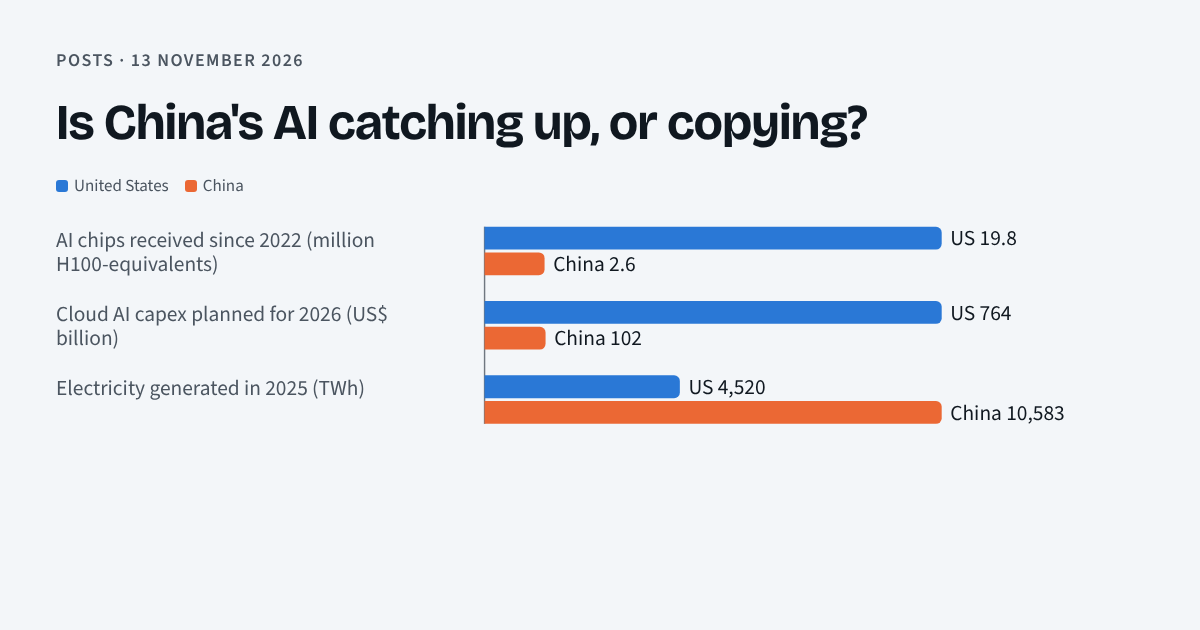
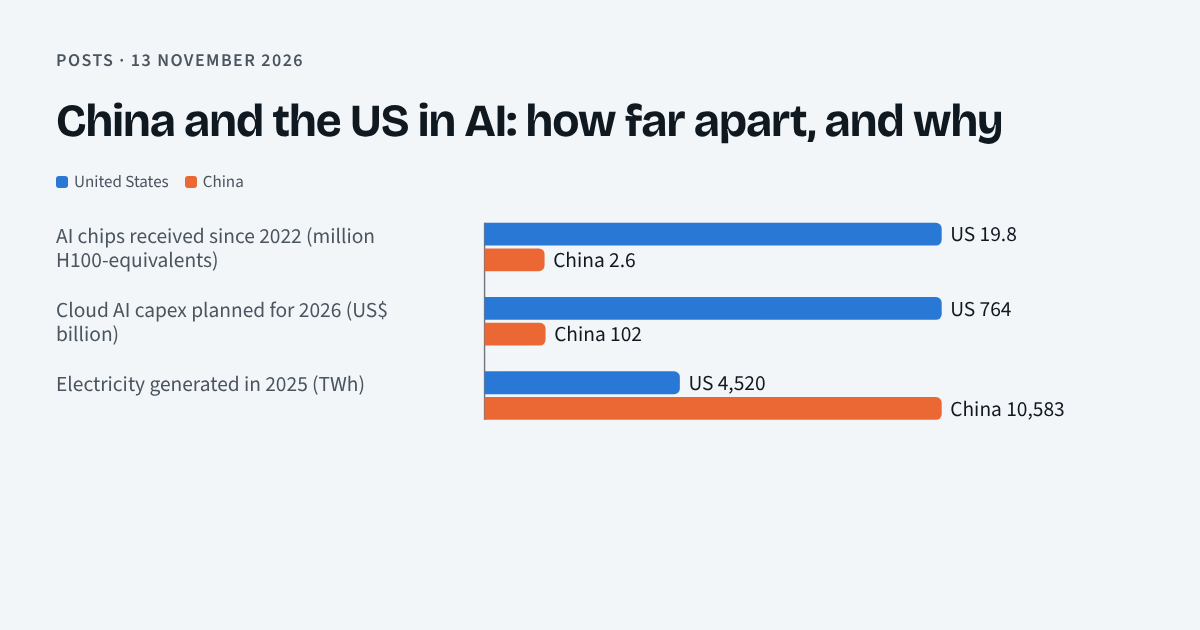
Reframe China-US AI post as a plain analysis (#2)
Drop the two opposing claims. The page now asks how far apart the two
countries are and why, by topic: gap, efficiency, compute and power,
distillation, open models. Same evidence, sources and URL.

Claude-Session: https://claude.ai/code/session_0147RMXtqWjcENkYBGEDdVp2

diff --git a/china-us-ai-2026/index.html b/china-us-ai-2026/index.html
@@ -3,12 +3,12 @@
 <head>
 <meta charset="utf-8">
 <meta name="viewport" content="width=device-width, initial-scale=1">
-<title>Is China's AI catching up, or copying? Two claims tested</title>
-<meta name="description" content="Two common takes on the China-US AI race, tested against the evidence: Chinese AI is more efficient and will win, or China is six months behind because it only distills US models.">
+<title>China and the US in AI: how far apart, and why</title>
+<meta name="description" content="An analysis of the China-US AI gap in 2026: how far behind Chinese models are, and what efficiency, compute, power, distillation and open models each contribute.">
 <meta property="og:type" content="article">
 <meta property="og:site_name" content="Posts">
-<meta property="og:title" content="Is China's AI catching up, or copying? Two claims tested">
-<meta property="og:description" content="China is about six months behind with a fraction of the compute. Distillation is large, but so is Chinese innovation. Neither popular take holds up.">
+<meta property="og:title" content="China and the US in AI: how far apart, and why">
+<meta property="og:description" content="Chinese models trail the US by about six months with a fraction of the compute. Efficiency, distillation, power and open models, measured.">
 <meta property="og:url" content="https://jwang47.github.io/posts/china-us-ai-2026/">
 <meta property="og:image" content="https://jwang47.github.io/posts/china-us-ai-2026/card.png">
 <meta property="og:image:width" content="1200">
@@ -90,11 +90,13 @@ footer { font-size: 15px; color: var(--ink-2); display: flex; flex-direction: co
 <main>
 <header>
   <div class="kicker">Written 13 November 2026</div>
-  <h1>Is China's AI catching up, or copying? Two claims tested</h1>
-  <p class="lede">Two friends disagree about the AI race. One says Chinese AI is more efficient, so it will win whatever happens. The other says China is always six months behind because it only copies American models. The evidence gives the second friend the right number and the first friend one real point. Neither conclusion holds.</p>
+  <h1>China and the US in AI: how far apart, and why</h1>
+  <p class="lede">The best Chinese AI models trail the best American ones by about six months. This post looks at why: how much comes from efficiency, compute, electricity and distillation, and where China already leads.</p>
   <div class="claims">
-    <div class="claim"><q>Chinese AI is a lot more scalable than US AI, it's more optimized. US AI is only better because of raw processing power, so either way they're gonna win.</q><b>Mostly wrong.</b><span>Chinese labs did invent real efficiency methods. But they are short of compute, not more scalable: they rationed service in 2026 and DeepSeek raised its prices. The US has 8 to 16 times the compute, and published efficiency methods help both sides.</span></div>
-    <div class="claim"><q>China is always 6 months behind Anthropic and OpenAI because they're mainly just distilling their models. Always lagging, no real innovation.</q><b>Right number, half-right reason.</b><span>The gap is about 4 to 8 months. Distillation is real and very large: Anthropic's per-lab counts add up to about 190 million exchanges, mostly in May to July 2026. But Chinese labs also publish original methods, so "no real innovation" is wrong.</span></div>
+    <div class="claim"><b>The gap</b><span>About 4 to 8 months, centred near 6, with no clear trend since 2023. Every model at the frontier has been American.</span></div>
+    <div class="claim"><b>Efficiency</b><span>Chinese labs published original methods that cut training and serving costs. They still ration compute, and efficiency does not replace chips.</span></div>
+    <div class="claim"><b>Compute and power</b><span>The US has about 8 to 16 times the AI compute. China generates more than twice the electricity, but cannot yet make enough chips to use it.</span></div>
+    <div class="claim"><b>Distillation</b><span>Large and documented: Anthropic's per-lab counts add up to about 190 million exchanges in 2026. One estimate says it halves the gap.</span></div>
   </div>
   <div class="tiles">
     <div class="tile"><b>~6 months</b><span>typical lag of the best Chinese model behind the best US model; range 4 to 14</span></div>
@@ -155,12 +157,12 @@ footer { font-size: 15px; color: var(--ink-2); display: flex; flex-direction: co
 <g><path class="cn" d="M0.0,351.0 h80.6 a4,4 0 0 1 4,4 v14.0 a4,4 0 0 1 -4,4 h-80.6 z"/><title>Epoch AI, open vs closed models, since Jan 2026: 4 months</title></g>
 <text class="val" x="90.6" y="367.0">4</text></svg><details><summary>Show the numbers</summary><div class="wrap"><table><tr><th>Estimate</th><th>Months behind</th><th>Note</th></tr><tr><td>NIST CAISI test of DeepSeek V4 Pro, May 2026</td><td>8</td><td>About level with GPT-5</td></tr><tr><td>Epoch AI, best Chinese vs best US model, 2023 to Jan 2026 (average)</td><td>7</td><td>Range 4 to 14 months</td></tr><tr><td>Institute for Progress, 2026</td><td>6.5</td><td>Says it would be about 13 without distillation</td></tr><tr><td>Mozilla, open vs closed models, Sep 2026</td><td>4.4</td><td>Open vs closed, not China vs US</td></tr><tr><td>Epoch AI, open vs closed models, since Jan 2026</td><td>4</td><td>Open vs closed, not China vs US</td></tr></table></div></details>
   </div>
-  <p>So the second friend's "six months" is a fair summary: about 4 to 8 months, centred near 6, with no clear trend either way. The word "always" is too strong; the lag has moved between 4 and 14 months since 2023.</p>
+  <p>Taken together: about 4 to 8 months, centred near 6, with no clear trend either way. The lag is not fixed; it has moved between 4 and 14 months since 2023.</p>
 </section>
 
 <section>
-  <h2>Claim 1: China is more efficient</h2>
-  <p>This part has truth in it. Export controls cut Chinese labs off from the best Nvidia chips, so they had to do more with less. Their published work shows original methods:</p>
+  <h2>Efficiency</h2>
+  <p>Export controls cut Chinese labs off from the best Nvidia chips, so they had to do more with less. Their published work shows original methods:</p>
   <ul class="plain">
     <li><b>DeepSeek-V3</b> (Dec 2024) took about 2.8 million GPU hours for its final training run, about $5.6 million at rental prices. Meta's Llama 3 405B, a weaker model, took 30.8 million.<sup><a href="#s14">14</a></sup> It combined a compressed attention cache (MLA, DeepSeek's own design), mixture-of-experts and 8-bit training at scale.</li>
     <li><b>DeepSeek-R1</b> (Jan 2025) was the first open, detailed recipe for teaching a model to reason with reinforcement learning (GRPO). OpenAI's o1 reasoned first, but kept its method secret. R1 was also the first major model paper to pass peer review, in <i>Nature</i>; the reasoning stage cost about $294,000.<sup><a href="#s15">15</a></sup></li>
@@ -210,7 +212,11 @@ footer { font-size: 15px; color: var(--ink-2); display: flex; flex-direction: co
 <text class="val" x="15.8" y="322.0">1.32</text></svg><details><summary>Show the numbers</summary><div class="wrap"><table><tr><th>Model</th><th>US$ per million output tokens</th></tr><tr><td>Claude Fable 5.2 (Anthropic)</td><td>$40</td></tr><tr><td>Claude Opus 5.5 (Anthropic)</td><td>$20</td></tr><tr><td>GPT-6.1 Sol (OpenAI)</td><td>$10</td></tr><tr><td>Claude Sonnet 5.5 (Anthropic)</td><td>$10</td></tr><tr><td>DeepSeek V4-Pro, peak hours</td><td>$3.96</td></tr><tr><td>DeepSeek V4-Flash, peak hours</td><td>$1.32</td></tr></table></div></details>
     <div class="note">DeepSeek charges half these prices off-peak. Before August, V4-Pro cost $0.87. The models are not equal in ability, so this is not a like-for-like comparison.</div>
   </div>
-  <p>Now the problems with "more scalable, so they will win either way".</p>
+  </section>
+
+<section>
+  <h2>Compute and power</h2>
+  <p>Efficiency matters, but it has limits as a strategy.</p>
   <ol class="plain">
     <li><b>Chinese labs are short of compute, not scaling past it.</b> In April 2026 Caixin reported that MiniMax, Moonshot and Zhipu rationed service, and DeepSeek had an outage of nearly 12 hours. Alibaba Cloud's chief expects the shortage to last 3 to 5 years.<sup><a href="#s27">27</a></sup> DeepSeek's price rise points the same way. Efficiency was how they coped with too few chips; it did not make the shortage go away.</li>
     <li><b>The compute gap is large and growing.</b> Of all AI chips shipped from 2022 to mid-2026, the US got 72% and China about 10%, by computing power: about 7.6 times as much.<sup><a href="#s5">5</a></sup> The Institute for Progress puts the gap in compute used for training at about 16 times.<sup><a href="#s3">3</a></sup> The US share of new compute rose from about 60% a year in 2022-2024 to 78% in the first half of 2026.<sup><a href="#s5">5</a></sup> US cloud companies plan about $764 billion of AI spending in 2026, against about $102 billion for Chinese ones.<sup><a href="#s6">6</a></sup></li>
@@ -277,7 +283,7 @@ footer { font-size: 15px; color: var(--ink-2); display: flex; flex-direction: co
 <g><path class="cn" d="M0.0,202.0 h292.0 a4,4 0 0 1 4,4 v8.0 a4,4 0 0 1 -4,4 h-292.0 z"/><title>China: 10,583 TWh</title></g>
 <text class="val" x="302.0" y="215.0">China 10,583</text></svg><details><summary>Show the numbers</summary><div class="wrap"><table><tr><th>Measure</th><th>US</th><th>China</th></tr><tr><td>AI chips received since 2022 (million H100-equivalents)</td><td>19.8</td><td>2.6</td></tr><tr><td>Cloud AI capex planned for 2026 (US$ billion)</td><td>764</td><td>102</td></tr><tr><td>Electricity generated in 2025 (TWh)</td><td>4,520</td><td>10,583</td></tr></table></div></details>
   </div>
-  <p>The last row shows where "more scalable" does have force: <b>power</b>. China generated about 10,600 TWh of electricity in 2025, more than twice the US, and added about 540 GW of capacity in that one year.<sup><a href="#s7">7</a></sup> Power is now the main limit on US data centres; in China it is chips.<sup><a href="#s7">7</a>,<a href="#s22">22</a></sup> If China solves chips, its power lead starts to matter a lot.</p>
+  <p>The last row shows where China does scale better: <b>power</b>. China generated about 10,600 TWh of electricity in 2025, more than twice the US, and added about 540 GW of capacity in that one year.<sup><a href="#s7">7</a></sup> Power is now the main limit on US data centres; in China it is chips.<sup><a href="#s7">7</a>,<a href="#s22">22</a></sup> If China solves chips, its power lead starts to matter a lot.</p>
   <p>It has not solved chips. Huawei's Ascend output is limited by high-bandwidth memory more than by chip factories, and Epoch AI estimates Huawei will make less than 4% as much AI compute as Nvidia in 2026.<sup><a href="#s19">19</a></sup> Washington licensed some Nvidia H200 sales to China, but Beijing itself limits them, and few have shipped.<sup><a href="#s20">20</a></sup> IFP estimates, per secondary coverage, that about 65% of China's AI compute runs on US chips.<sup><a href="#s3">3</a></sup></p>
   <div class="box new">
     <p><b>New this week.</b> On 12 November, former OpenAI researcher Will DePue published an analysis of six recent models from DeepSeek, Moonshot, MiniMax and Ant Group. He says traces in the published weights show that they were initialised on Nvidia Blackwell chips, which are banned for export to China. His method matched 24 models whose makers disclosed their hardware. His own report says this "supports, without proving" training on Blackwell, and does not show where the chips were or that any law was broken. He estimates roughly 12,000 Blackwell GPUs (7,000 to 20,000).<sup><a href="#s21">21</a></sup> The analysis is one day old and unverified. If it holds, the number is small next to the US fleet, so it would not change the compute picture much. It would suggest that export controls leak, and that part of China's "efficiency" story runs on US chips.</p>
@@ -285,9 +291,9 @@ footer { font-size: 15px; color: var(--ink-2); display: flex; flex-direction: co
 </section>
 
 <section>
-  <h2>Claim 2: China mainly copies by distillation</h2>
-  <p>Distillation means training a model on the answers of a stronger model. Every lab does it with its own models. The accusation is that Chinese labs did it with US models, at scale, through fake accounts and proxy services.</p>
-  <p>The evidence for that is strong and the scale is large. In February 2026 Anthropic said DeepSeek, Moonshot and MiniMax made over 16 million exchanges with Claude through about 24,000 fraudulent accounts. It traced some accounts to specific researchers at DeepSeek and to senior Moonshot staff.<sup><a href="#s10">10</a></sup> In September it reported campaigns from seven China-based labs. Alibaba, the maker of Qwen, ran "the largest distillation attack we have ever measured": over 151 million exchanges from May to July, aimed at Claude's reasoning.<sup><a href="#s11">11</a></sup> Anthropic's per-lab counts add up to about 190 million exchanges, mostly in those three months. OpenAI told a House committee the same about DeepSeek in February,<sup><a href="#s13">13</a></sup> and Google has published on it too.<sup><a href="#s11">11</a></sup></p>
+  <h2>Distillation</h2>
+  <p>Distillation means training a model on the answers of a stronger model. Every lab does it with its own models. The issue here is that Chinese labs did it with US models, at scale, through fake accounts and proxy services.</p>
+  <p>The evidence is strong and the scale is large. In February 2026 Anthropic said DeepSeek, Moonshot and MiniMax made over 16 million exchanges with Claude through about 24,000 fraudulent accounts. It traced some accounts to specific researchers at DeepSeek and to senior Moonshot staff.<sup><a href="#s10">10</a></sup> In September it reported campaigns from seven China-based labs. Alibaba, the maker of Qwen, ran "the largest distillation attack we have ever measured": over 151 million exchanges from May to July, aimed at Claude's reasoning.<sup><a href="#s11">11</a></sup> Anthropic's per-lab counts add up to about 190 million exchanges, mostly in those three months. OpenAI told a House committee the same about DeepSeek in February,<sup><a href="#s13">13</a></sup> and Google has published on it too.<sup><a href="#s11">11</a></sup></p>
   <div class="panel">
     <h3>Exchanges with Claude that Anthropic attributes to each lab</h3>
     <div class="sub">Millions of exchanges, from Anthropic's February and September 2026 reports. The time windows differ. Not independently verified.</div>
@@ -330,29 +336,29 @@ footer { font-size: 15px; color: var(--ink-2); display: flex; flex-direction: co
   </div>
   <p>It also works. In Anthropic's test, a pretrained Claude model trained on Claude Opus 4.8 transcripts scored 80.4% on SWE-bench Verified, a hard coding test, and 71.8% when the reasoning was summarised.<sup><a href="#s12">12</a></sup> Anthropic says Zhipu distilled the cyber skills of US models into GLM-5.3, which CAISI rates the most cyber-capable open model released so far.<sup><a href="#s12">12</a></sup></p>
   <p>How much of the lag does it explain? The only number anyone has published comes from the Institute for Progress. It models the US compute lead as worth about 13 months, and says distillation cuts that to about 6.5.<sup><a href="#s3">3</a></sup> IFP argues for export controls, so it is not neutral, but nobody has published a better estimate. If it is roughly right, distillation is not a side issue. It halves the gap.</p>
-  <p>But "no real innovation" still fails. You cannot learn a new attention design, a new optimizer fix or a cheaper training recipe by copying another model's answers. Those came from Chinese labs, in public papers with open weights. The fair summary is that Chinese labs both innovate and distill, and the distilling is a major part of how they keep pace.</p>
+  <p>Distillation does not explain everything. You cannot learn a new attention design, a new optimizer fix or a cheaper training recipe by copying another model's answers. Those came from Chinese labs, in public papers with open weights. The fair summary is that Chinese labs both innovate and distill, and the distilling is a major part of how they keep pace.</p>
   <div class="box">
     <p><b>A conflict of interest.</b> Almost all distillation evidence comes from Anthropic and OpenAI, who compete with these labs and lobby for export controls. Nobody outside has checked it, and the named labs have mostly not answered. Mozilla, for one, calls a claim that Moonshot distilled Claude Fable 5 for Kimi K3 "asserted, and unshown".<sup><a href="#s4">4</a></sup> And this post was written by Claude, which Anthropic makes. I have used the counts and test results in the reports, not their arguments, and I tried to give the sceptical side too.</p>
   </div>
-  <p>One test is coming. Anthropic says its new defences cut the data that distillers get by 90 to 99%.<sup><a href="#s12">12</a></sup> That covers only its own models; distillers can move to other labs, as Zhipu did. If US labs together shut distillation down and the gap widens through 2027, the second friend's theory gains a lot. If the gap holds at about six months, Chinese labs are doing more on their own than their critics think.</p>
+  <p>One test is coming. Anthropic says its new defences cut the data that distillers get by 90 to 99%.<sup><a href="#s12">12</a></sup> That covers only its own models; distillers can move to other labs, as Zhipu did. If US labs together shut distillation down and the gap widens through 2027, distillation was carrying a lot. If the gap holds at about six months, Chinese labs are doing more on their own than their critics think.</p>
 </section>
 
 <section>
   <h2>Where China is ahead</h2>
-  <p>Neither friend mentioned the area where China clearly leads: <b>open models that other people build on</b>. Chinese models took 41% of Hugging Face downloads in the year to March 2026.<sup><a href="#s8">8</a></sup> Alibaba's Qwen family passed Meta's Llama: about 151,000 derivative models, 2.6 times Meta's, and about 2 billion downloads in 2026 against 227 million for Meta.<sup><a href="#s8">8</a></sup> On OpenRouter, a popular service that routes requests to many models, Chinese models handled more than half of all tokens in September 2026, by several estimates.<sup><a href="#s28">28</a></sup> For a company or a country that wants a good model it can run itself, cheaply, the default in 2026 is usually Chinese.</p>
+  <p>There is one area where China clearly leads: <b>open models that other people build on</b>. Chinese models took 41% of Hugging Face downloads in the year to March 2026.<sup><a href="#s8">8</a></sup> Alibaba's Qwen family passed Meta's Llama: about 151,000 derivative models, 2.6 times Meta's, and about 2 billion downloads in 2026 against 227 million for Meta.<sup><a href="#s8">8</a></sup> On OpenRouter, a popular service that routes requests to many models, Chinese models handled more than half of all tokens in September 2026, by several estimates.<sup><a href="#s28">28</a></sup> For a company or a country that wants a good model it can run itself, cheaply, the default in 2026 is usually Chinese.</p>
   <p>That is a different race. The US leads at building the best model. China leads at spreading good-enough models everywhere.</p>
 </section>
 
 <section>
-  <h2>Verdict</h2>
+  <h2>Summary</h2>
   <ul class="plain">
-    <li><b>"China is about six months behind"</b>: true. About 4 to 8 months, with no clear trend.</li>
-    <li><b>"Because they mainly distill"</b>: partly true. Distillation is large, documented and, by the one published estimate, worth about half the gap. The size is disputed and comes mostly from interested parties.</li>
-    <li><b>"No real innovation"</b>: false. Chinese labs published several original efficiency methods that the open-model world now uses.</li>
-    <li><b>"Chinese AI is more optimized"</b>: partly true. Their training and inference methods are lean, and list prices are lower. Per finished task the cost is mixed.</li>
-    <li><b>"More scalable"</b>: false today. Chinese labs ration compute. Only in electricity does China scale better.</li>
-    <li><b>"US AI is only better because of raw compute"</b>: cannot be shown. Compute is the biggest US advantage, 8 to 16 times, but the IFP estimate says the US lead would be twice as long if distillation stopped.</li>
-    <li><b>"So China wins either way"</b>: does not follow. Published efficiency gains help both sides, and the US gets to apply them to far more chips.</li>
+    <li><b>The gap</b> is about 4 to 8 months, with no clear trend. The frontier has been American every month since 2023.</li>
+    <li><b>Efficiency</b> is a real Chinese strength. Their training and serving methods are lean and original, and list prices are lower. Per finished task, the cost is mixed.</li>
+    <li><b>Compute</b> is the largest US advantage, about 8 to 16 times, and the US share of new chips is still growing. Chinese labs rationed service in 2026.</li>
+    <li><b>Power</b> is China's largest structural advantage, but it cannot use it at scale until it makes enough AI chips and high-bandwidth memory.</li>
+    <li><b>Distillation</b> is large and documented. By the one published estimate it is worth about half the gap. The size is disputed, and the evidence comes mostly from interested parties.</li>
+    <li><b>Original research</b> is real: several efficiency methods that the open-model world now uses came from Chinese labs.</li>
+    <li><b>Open models</b> are where China leads, by downloads, derivatives and usage.</li>
   </ul>
   <p>The likely path for the next year or two: the US keeps the frontier by about six months, and China keeps the lead in cheap open models and in power. Three things could change that. If China makes high-bandwidth memory at scale, its power lead comes into play. If Blackwell chips keep reaching Chinese labs, export controls matter less. If distillation is shut off and the gap widens, the US lead grows.</p>
 </section>

diff --git a/china-us-ai-2026/page.html b/china-us-ai-2026/page.html
@@ -3,12 +3,12 @@
 <head>
 <meta charset="utf-8">
 <meta name="viewport" content="width=device-width, initial-scale=1">
-<title>Is China's AI catching up, or copying? Two claims tested</title>
-<meta name="description" content="Two common takes on the China-US AI race, tested against the evidence: Chinese AI is more efficient and will win, or China is six months behind because it only distills US models.">
+<title>China and the US in AI: how far apart, and why</title>
+<meta name="description" content="An analysis of the China-US AI gap in 2026: how far behind Chinese models are, and what efficiency, compute, power, distillation and open models each contribute.">
 <meta property="og:type" content="article">
 <meta property="og:site_name" content="Posts">
-<meta property="og:title" content="Is China's AI catching up, or copying? Two claims tested">
-<meta property="og:description" content="China is about six months behind with a fraction of the compute. Distillation is large, but so is Chinese innovation. Neither popular take holds up.">
+<meta property="og:title" content="China and the US in AI: how far apart, and why">
+<meta property="og:description" content="Chinese models trail the US by about six months with a fraction of the compute. Efficiency, distillation, power and open models, measured.">
 <meta property="og:url" content="https://jwang47.github.io/posts/china-us-ai-2026/">
 <meta property="og:image" content="https://jwang47.github.io/posts/china-us-ai-2026/card.png">
 <meta property="og:image:width" content="1200">
@@ -90,11 +90,13 @@ footer { font-size: 15px; color: var(--ink-2); display: flex; flex-direction: co
 <main>
 <header>
   <div class="kicker">Written 13 November 2026</div>
-  <h1>Is China's AI catching up, or copying? Two claims tested</h1>
-  <p class="lede">Two friends disagree about the AI race. One says Chinese AI is more efficient, so it will win whatever happens. The other says China is always six months behind because it only copies American models. The evidence gives the second friend the right number and the first friend one real point. Neither conclusion holds.</p>
+  <h1>China and the US in AI: how far apart, and why</h1>
+  <p class="lede">The best Chinese AI models trail the best American ones by about six months. This post looks at why: how much comes from efficiency, compute, electricity and distillation, and where China already leads.</p>
   <div class="claims">
-    <div class="claim"><q>Chinese AI is a lot more scalable than US AI, it's more optimized. US AI is only better because of raw processing power, so either way they're gonna win.</q><b>Mostly wrong.</b><span>Chinese labs did invent real efficiency methods. But they are short of compute, not more scalable: they rationed service in 2026 and DeepSeek raised its prices. The US has 8 to 16 times the compute, and published efficiency methods help both sides.</span></div>
-    <div class="claim"><q>China is always 6 months behind Anthropic and OpenAI because they're mainly just distilling their models. Always lagging, no real innovation.</q><b>Right number, half-right reason.</b><span>The gap is about 4 to 8 months. Distillation is real and very large: Anthropic's per-lab counts add up to about 190 million exchanges, mostly in May to July 2026. But Chinese labs also publish original methods, so "no real innovation" is wrong.</span></div>
+    <div class="claim"><b>The gap</b><span>About 4 to 8 months, centred near 6, with no clear trend since 2023. Every model at the frontier has been American.</span></div>
+    <div class="claim"><b>Efficiency</b><span>Chinese labs published original methods that cut training and serving costs. They still ration compute, and efficiency does not replace chips.</span></div>
+    <div class="claim"><b>Compute and power</b><span>The US has about 8 to 16 times the AI compute. China generates more than twice the electricity, but cannot yet make enough chips to use it.</span></div>
+    <div class="claim"><b>Distillation</b><span>Large and documented: Anthropic's per-lab counts add up to about 190 million exchanges in 2026. One estimate says it halves the gap.</span></div>
   </div>
   <div class="tiles">
     <div class="tile"><b>~6 months</b><span>typical lag of the best Chinese model behind the best US model; range 4 to 14</span></div>
@@ -113,12 +115,12 @@ footer { font-size: 15px; color: var(--ink-2); display: flex; flex-direction: co
     <div class="sub">Five published estimates. The last two compare open-weight with closed models.</div>
     {{chart:lag}}
   </div>
-  <p>So the second friend's "six months" is a fair summary: about 4 to 8 months, centred near 6, with no clear trend either way. The word "always" is too strong; the lag has moved between 4 and 14 months since 2023.</p>
+  <p>Taken together: about 4 to 8 months, centred near 6, with no clear trend either way. The lag is not fixed; it has moved between 4 and 14 months since 2023.</p>
 </section>
 
 <section>
-  <h2>Claim 1: China is more efficient</h2>
-  <p>This part has truth in it. Export controls cut Chinese labs off from the best Nvidia chips, so they had to do more with less. Their published work shows original methods:</p>
+  <h2>Efficiency</h2>
+  <p>Export controls cut Chinese labs off from the best Nvidia chips, so they had to do more with less. Their published work shows original methods:</p>
   <ul class="plain">
     <li><b>DeepSeek-V3</b> (Dec 2024) took about 2.8 million GPU hours for its final training run, about $5.6 million at rental prices. Meta's Llama 3 405B, a weaker model, took 30.8 million.<sup><a href="#s14">14</a></sup> It combined a compressed attention cache (MLA, DeepSeek's own design), mixture-of-experts and 8-bit training at scale.</li>
     <li><b>DeepSeek-R1</b> (Jan 2025) was the first open, detailed recipe for teaching a model to reason with reinforcement learning (GRPO). OpenAI's o1 reasoned first, but kept its method secret. R1 was also the first major model paper to pass peer review, in <i>Nature</i>; the reasoning stage cost about $294,000.<sup><a href="#s15">15</a></sup></li>
@@ -133,7 +135,11 @@ footer { font-size: 15px; color: var(--ink-2); display: flex; flex-direction: co
     {{chart:price}}
     <div class="note">DeepSeek charges half these prices off-peak. Before August, V4-Pro cost $0.87. The models are not equal in ability, so this is not a like-for-like comparison.</div>
   </div>
-  <p>Now the problems with "more scalable, so they will win either way".</p>
+  </section>
+
+<section>
+  <h2>Compute and power</h2>
+  <p>Efficiency matters, but it has limits as a strategy.</p>
   <ol class="plain">
     <li><b>Chinese labs are short of compute, not scaling past it.</b> In April 2026 Caixin reported that MiniMax, Moonshot and Zhipu rationed service, and DeepSeek had an outage of nearly 12 hours. Alibaba Cloud's chief expects the shortage to last 3 to 5 years.<sup><a href="#s27">27</a></sup> DeepSeek's price rise points the same way. Efficiency was how they coped with too few chips; it did not make the shortage go away.</li>
     <li><b>The compute gap is large and growing.</b> Of all AI chips shipped from 2022 to mid-2026, the US got 72% and China about 10%, by computing power: about 7.6 times as much.<sup><a href="#s5">5</a></sup> The Institute for Progress puts the gap in compute used for training at about 16 times.<sup><a href="#s3">3</a></sup> The US share of new compute rose from about 60% a year in 2022-2024 to 78% in the first half of 2026.<sup><a href="#s5">5</a></sup> US cloud companies plan about $764 billion of AI spending in 2026, against about $102 billion for Chinese ones.<sup><a href="#s6">6</a></sup></li>
@@ -151,7 +157,7 @@ footer { font-size: 15px; color: var(--ink-2); display: flex; flex-direction: co
     <div class="legend"><span><i style="background:var(--us)"></i>United States</span><span><i style="background:var(--cn)"></i>China</span></div>
     {{chart:pairs}}
   </div>
-  <p>The last row shows where "more scalable" does have force: <b>power</b>. China generated about 10,600 TWh of electricity in 2025, more than twice the US, and added about 540 GW of capacity in that one year.<sup><a href="#s7">7</a></sup> Power is now the main limit on US data centres; in China it is chips.<sup><a href="#s7">7</a>,<a href="#s22">22</a></sup> If China solves chips, its power lead starts to matter a lot.</p>
+  <p>The last row shows where China does scale better: <b>power</b>. China generated about 10,600 TWh of electricity in 2025, more than twice the US, and added about 540 GW of capacity in that one year.<sup><a href="#s7">7</a></sup> Power is now the main limit on US data centres; in China it is chips.<sup><a href="#s7">7</a>,<a href="#s22">22</a></sup> If China solves chips, its power lead starts to matter a lot.</p>
   <p>It has not solved chips. Huawei's Ascend output is limited by high-bandwidth memory more than by chip factories, and Epoch AI estimates Huawei will make less than 4% as much AI compute as Nvidia in 2026.<sup><a href="#s19">19</a></sup> Washington licensed some Nvidia H200 sales to China, but Beijing itself limits them, and few have shipped.<sup><a href="#s20">20</a></sup> IFP estimates, per secondary coverage, that about 65% of China's AI compute runs on US chips.<sup><a href="#s3">3</a></sup></p>
   <div class="box new">
     <p><b>New this week.</b> On 12 November, former OpenAI researcher Will DePue published an analysis of six recent models from DeepSeek, Moonshot, MiniMax and Ant Group. He says traces in the published weights show that they were initialised on Nvidia Blackwell chips, which are banned for export to China. His method matched 24 models whose makers disclosed their hardware. His own report says this "supports, without proving" training on Blackwell, and does not show where the chips were or that any law was broken. He estimates roughly 12,000 Blackwell GPUs (7,000 to 20,000).<sup><a href="#s21">21</a></sup> The analysis is one day old and unverified. If it holds, the number is small next to the US fleet, so it would not change the compute picture much. It would suggest that export controls leak, and that part of China's "efficiency" story runs on US chips.</p>
@@ -159,9 +165,9 @@ footer { font-size: 15px; color: var(--ink-2); display: flex; flex-direction: co
 </section>
 
 <section>
-  <h2>Claim 2: China mainly copies by distillation</h2>
-  <p>Distillation means training a model on the answers of a stronger model. Every lab does it with its own models. The accusation is that Chinese labs did it with US models, at scale, through fake accounts and proxy services.</p>
-  <p>The evidence for that is strong and the scale is large. In February 2026 Anthropic said DeepSeek, Moonshot and MiniMax made over 16 million exchanges with Claude through about 24,000 fraudulent accounts. It traced some accounts to specific researchers at DeepSeek and to senior Moonshot staff.<sup><a href="#s10">10</a></sup> In September it reported campaigns from seven China-based labs. Alibaba, the maker of Qwen, ran "the largest distillation attack we have ever measured": over 151 million exchanges from May to July, aimed at Claude's reasoning.<sup><a href="#s11">11</a></sup> Anthropic's per-lab counts add up to about 190 million exchanges, mostly in those three months. OpenAI told a House committee the same about DeepSeek in February,<sup><a href="#s13">13</a></sup> and Google has published on it too.<sup><a href="#s11">11</a></sup></p>
+  <h2>Distillation</h2>
+  <p>Distillation means training a model on the answers of a stronger model. Every lab does it with its own models. The issue here is that Chinese labs did it with US models, at scale, through fake accounts and proxy services.</p>
+  <p>The evidence is strong and the scale is large. In February 2026 Anthropic said DeepSeek, Moonshot and MiniMax made over 16 million exchanges with Claude through about 24,000 fraudulent accounts. It traced some accounts to specific researchers at DeepSeek and to senior Moonshot staff.<sup><a href="#s10">10</a></sup> In September it reported campaigns from seven China-based labs. Alibaba, the maker of Qwen, ran "the largest distillation attack we have ever measured": over 151 million exchanges from May to July, aimed at Claude's reasoning.<sup><a href="#s11">11</a></sup> Anthropic's per-lab counts add up to about 190 million exchanges, mostly in those three months. OpenAI told a House committee the same about DeepSeek in February,<sup><a href="#s13">13</a></sup> and Google has published on it too.<sup><a href="#s11">11</a></sup></p>
   <div class="panel">
     <h3>Exchanges with Claude that Anthropic attributes to each lab</h3>
     <div class="sub">Millions of exchanges, from Anthropic's February and September 2026 reports. The time windows differ. Not independently verified.</div>
@@ -169,29 +175,29 @@ footer { font-size: 15px; color: var(--ink-2); display: flex; flex-direction: co
   </div>
   <p>It also works. In Anthropic's test, a pretrained Claude model trained on Claude Opus 4.8 transcripts scored 80.4% on SWE-bench Verified, a hard coding test, and 71.8% when the reasoning was summarised.<sup><a href="#s12">12</a></sup> Anthropic says Zhipu distilled the cyber skills of US models into GLM-5.3, which CAISI rates the most cyber-capable open model released so far.<sup><a href="#s12">12</a></sup></p>
   <p>How much of the lag does it explain? The only number anyone has published comes from the Institute for Progress. It models the US compute lead as worth about 13 months, and says distillation cuts that to about 6.5.<sup><a href="#s3">3</a></sup> IFP argues for export controls, so it is not neutral, but nobody has published a better estimate. If it is roughly right, distillation is not a side issue. It halves the gap.</p>
-  <p>But "no real innovation" still fails. You cannot learn a new attention design, a new optimizer fix or a cheaper training recipe by copying another model's answers. Those came from Chinese labs, in public papers with open weights. The fair summary is that Chinese labs both innovate and distill, and the distilling is a major part of how they keep pace.</p>
+  <p>Distillation does not explain everything. You cannot learn a new attention design, a new optimizer fix or a cheaper training recipe by copying another model's answers. Those came from Chinese labs, in public papers with open weights. The fair summary is that Chinese labs both innovate and distill, and the distilling is a major part of how they keep pace.</p>
   <div class="box">
     <p><b>A conflict of interest.</b> Almost all distillation evidence comes from Anthropic and OpenAI, who compete with these labs and lobby for export controls. Nobody outside has checked it, and the named labs have mostly not answered. Mozilla, for one, calls a claim that Moonshot distilled Claude Fable 5 for Kimi K3 "asserted, and unshown".<sup><a href="#s4">4</a></sup> And this post was written by Claude, which Anthropic makes. I have used the counts and test results in the reports, not their arguments, and I tried to give the sceptical side too.</p>
   </div>
-  <p>One test is coming. Anthropic says its new defences cut the data that distillers get by 90 to 99%.<sup><a href="#s12">12</a></sup> That covers only its own models; distillers can move to other labs, as Zhipu did. If US labs together shut distillation down and the gap widens through 2027, the second friend's theory gains a lot. If the gap holds at about six months, Chinese labs are doing more on their own than their critics think.</p>
+  <p>One test is coming. Anthropic says its new defences cut the data that distillers get by 90 to 99%.<sup><a href="#s12">12</a></sup> That covers only its own models; distillers can move to other labs, as Zhipu did. If US labs together shut distillation down and the gap widens through 2027, distillation was carrying a lot. If the gap holds at about six months, Chinese labs are doing more on their own than their critics think.</p>
 </section>
 
 <section>
   <h2>Where China is ahead</h2>
-  <p>Neither friend mentioned the area where China clearly leads: <b>open models that other people build on</b>. Chinese models took 41% of Hugging Face downloads in the year to March 2026.<sup><a href="#s8">8</a></sup> Alibaba's Qwen family passed Meta's Llama: about 151,000 derivative models, 2.6 times Meta's, and about 2 billion downloads in 2026 against 227 million for Meta.<sup><a href="#s8">8</a></sup> On OpenRouter, a popular service that routes requests to many models, Chinese models handled more than half of all tokens in September 2026, by several estimates.<sup><a href="#s28">28</a></sup> For a company or a country that wants a good model it can run itself, cheaply, the default in 2026 is usually Chinese.</p>
+  <p>There is one area where China clearly leads: <b>open models that other people build on</b>. Chinese models took 41% of Hugging Face downloads in the year to March 2026.<sup><a href="#s8">8</a></sup> Alibaba's Qwen family passed Meta's Llama: about 151,000 derivative models, 2.6 times Meta's, and about 2 billion downloads in 2026 against 227 million for Meta.<sup><a href="#s8">8</a></sup> On OpenRouter, a popular service that routes requests to many models, Chinese models handled more than half of all tokens in September 2026, by several estimates.<sup><a href="#s28">28</a></sup> For a company or a country that wants a good model it can run itself, cheaply, the default in 2026 is usually Chinese.</p>
   <p>That is a different race. The US leads at building the best model. China leads at spreading good-enough models everywhere.</p>
 </section>
 
 <section>
-  <h2>Verdict</h2>
+  <h2>Summary</h2>
   <ul class="plain">
-    <li><b>"China is about six months behind"</b>: true. About 4 to 8 months, with no clear trend.</li>
-    <li><b>"Because they mainly distill"</b>: partly true. Distillation is large, documented and, by the one published estimate, worth about half the gap. The size is disputed and comes mostly from interested parties.</li>
-    <li><b>"No real innovation"</b>: false. Chinese labs published several original efficiency methods that the open-model world now uses.</li>
-    <li><b>"Chinese AI is more optimized"</b>: partly true. Their training and inference methods are lean, and list prices are lower. Per finished task the cost is mixed.</li>
-    <li><b>"More scalable"</b>: false today. Chinese labs ration compute. Only in electricity does China scale better.</li>
-    <li><b>"US AI is only better because of raw compute"</b>: cannot be shown. Compute is the biggest US advantage, 8 to 16 times, but the IFP estimate says the US lead would be twice as long if distillation stopped.</li>
-    <li><b>"So China wins either way"</b>: does not follow. Published efficiency gains help both sides, and the US gets to apply them to far more chips.</li>
+    <li><b>The gap</b> is about 4 to 8 months, with no clear trend. The frontier has been American every month since 2023.</li>
+    <li><b>Efficiency</b> is a real Chinese strength. Their training and serving methods are lean and original, and list prices are lower. Per finished task, the cost is mixed.</li>
+    <li><b>Compute</b> is the largest US advantage, about 8 to 16 times, and the US share of new chips is still growing. Chinese labs rationed service in 2026.</li>
+    <li><b>Power</b> is China's largest structural advantage, but it cannot use it at scale until it makes enough AI chips and high-bandwidth memory.</li>
+    <li><b>Distillation</b> is large and documented. By the one published estimate it is worth about half the gap. The size is disputed, and the evidence comes mostly from interested parties.</li>
+    <li><b>Original research</b> is real: several efficiency methods that the open-model world now uses came from Chinese labs.</li>
+    <li><b>Open models</b> are where China leads, by downloads, derivatives and usage.</li>
   </ul>
   <p>The likely path for the next year or two: the US keeps the frontier by about six months, and China keeps the lead in cheap open models and in power. Three things could change that. If China makes high-bandwidth memory at scale, its power lead comes into play. If Blackwell chips keep reaching Chinese labs, export controls matter less. If distillation is shut off and the gap widens, the US lead grows.</p>
 </section>

diff --git a/index.html b/index.html
@@ -138,8 +138,8 @@ a.post p { color: var(--ink-2); }
   <div>
   <a class="post" href="china-us-ai-2026/">
     <div class="meta">13 November 2026 · China and US AI</div>
-    <h2>Is China's AI catching up, or copying? Two claims tested</h2>
-    <p>Is Chinese AI more efficient and bound to win, or six months behind because it only distills US models? The evidence on the gap, compute, distillation, power and open models, in five charts.</p>
+    <h2>China and the US in AI: how far apart, and why</h2>
+    <p>Chinese AI models trail the US by about six months. How much of that comes from efficiency, compute, electricity and distillation, and where China already leads, in six charts.</p>
   </a>
   </div>
   <div>

diff --git a/china-us-ai-2026/README.md b/china-us-ai-2026/README.md
@@ -1,16 +1,14 @@
-# Is China's AI catching up, or copying? Two claims tested
+# China and the US in AI: how far apart, and why
 
 Written 2026-11-13. Research and drafting: Claude Opus 5.5. Evidence
 search, fact check and verdict review: Claude Fable 5.2. The page is
 `index.html`; every source is listed at its end.
 
-## The two claims
+## Question
 
-- A: "Chinese AI is a lot more scalable than US AI, it's more optimized.
-  US AI is only better because of raw processing power, so either way
-  they're gonna win."
-- B: "China is always 6 months behind Anthropic and OpenAI because they're
-  mainly just distilling their models. Always lagging, no real innovation."
+How far behind the US are Chinese AI models in 2026, and how much of the
+gap comes from efficiency, compute, electricity, distillation and open
+models?
 
 ## Answer
 
@@ -18,16 +16,16 @@ search, fact check and verdict review: Claude Fable 5.2. The page is
   Epoch AI: 7 months on average since 2023 (range 4 to 14). CAISI: DeepSeek
   V4 Pro about 8 months behind (May 2026). The 4-month figures compare open
   with closed models, not China with the US.
-- **Claim A is mostly wrong.** Chinese labs published real efficiency
+- **Efficiency is real but does not replace chips.** Chinese labs published real efficiency
   methods (MLA, open GRPO reasoning recipe, MuonClip, sparse attention).
   But they are short of compute: they ration service (Caixin, Apr 2026) and
   DeepSeek raised prices in Aug 2026. The US has 7.6x the AI chips shipped
   since 2022 (Epoch) and about 16x the training compute (IFP). Published
   efficiency helps both sides. China scales better only in electricity.
-- **Claim B: the number is right, the reason is half right.** Anthropic
+- **Distillation is large.** Anthropic
   attributes about 190 million exchanges in May-July 2026 to Chinese labs
   (Alibaba 151 million). IFP estimates distillation halves the gap, from
-  about 13 to about 6.5 months. "No real innovation" is false. Most
+  about 13 to about 6.5 months. Chinese labs also do original research. Most
   distillation evidence comes from interested parties, and the post says so.
 - **China leads in open models**: 41% of Hugging Face downloads, Qwen
   derivatives 2.6x Meta's, over half of OpenRouter tokens in Sep 2026.
@@ -50,3 +48,6 @@ The cloud container could load only anthropic.com directly. Anthropic's
 February, September and October 2026 reports and its pricing page were read
 in full. Everything else was seen through web search results, and the page
 tags each source `read` or `search`.
+
+On 2026-11-13 Jiahua asked to drop the first version's framing as two
+opposing claims; the page is now a plain analysis at the same URL.

diff --git a/README.md b/README.md
@@ -5,7 +5,7 @@ page, the data and the scripts.
 
 | Post | Folder |
 | --- | --- |
-| Is China's AI catching up, or copying? Two claims tested (2026-11-13) | [`china-us-ai-2026/`](china-us-ai-2026/) |
+| China and the US in AI: how far apart, and why (2026-11-13) | [`china-us-ai-2026/`](china-us-ai-2026/) |
 | Why this winter's snow will come late, and when to go (2026-11-11) | [`hokkaido-winter-2026-27/`](hokkaido-winter-2026-27/) |
 
 The pages are plain HTML with no build step. Weather records are from the
